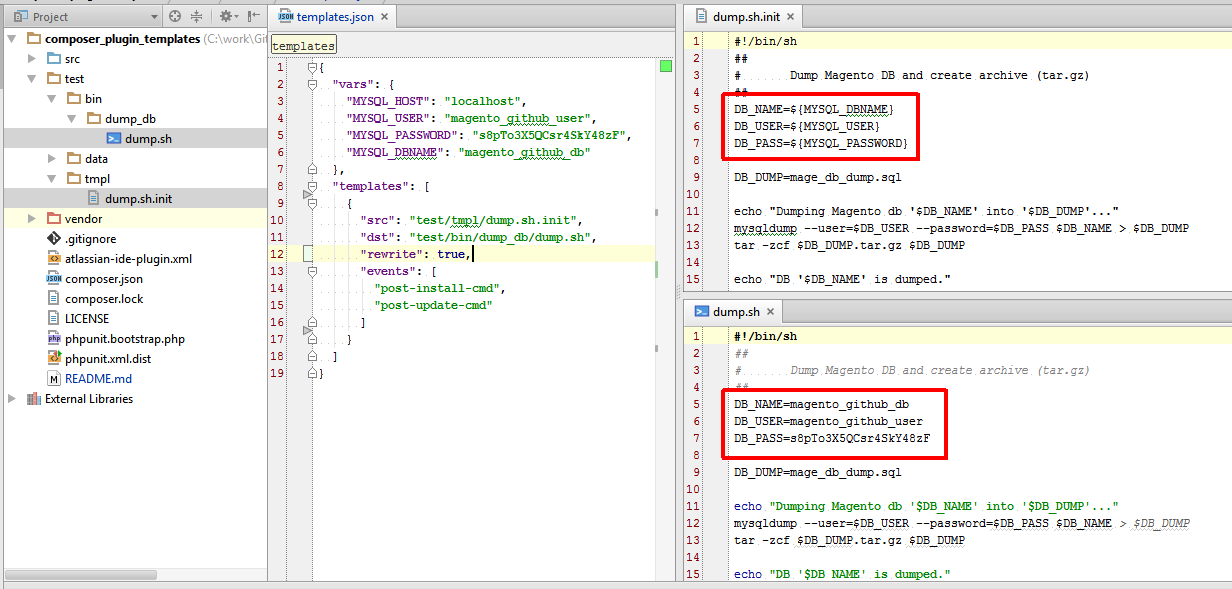
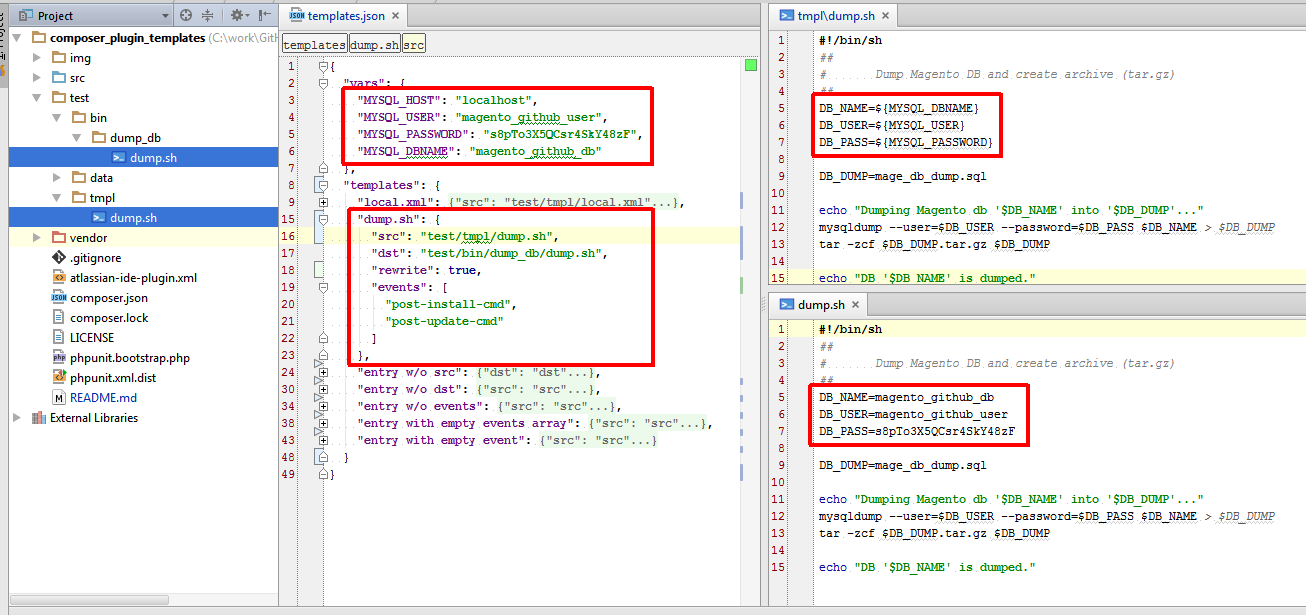
AD-23 - Update config format for templates plugin

Changed region(s): [[0.0, 0.0, 1.0, 1.0]]

diff --git a/src/Main_Test.php b/src/Main_Test.php
@@ -31,7 +31,7 @@ use Composer\Script\ScriptEvents;
 class Main_Test extends \PHPUnit_Framework_TestCase
 {
     const FILE_CONFIG_JSON = 'test/data/templates.json';
-    const FILE_TMPL_SRC = 'test/tmpl/dump.sh.init';
+    const FILE_TMPL_SRC = 'test/tmpl/dump.sh';
     const FILE_TMPL_DST = 'test/bin/dump_db/dump.sh';
     /** @var  string Root directory for the plugin to use test related files and folders. */
     private static $ROOT_DIR;

diff --git a/README.md b/README.md
@@ -43,26 +43,27 @@ parameter inyour project's *composer.json*::
         "MYSQL_PASSWORD": "s8pTo3X5QCsr4SkY48zF",
         "MYSQL_DBNAME": "magento_github_db"
       },
-      "templates": [
-        {
+      "templates": {
+        "local.xml": {
           "src": "test/tmpl/local.xml",
           "dst": "test/mage/app/etc/local.xml",
           "events": "post-install-cmd",
           "rewrite": true
         },
-        {
-          "src": "test/tmpl/dump.sh.init",
+        "dump.sh": {
+          "src": "test/tmpl/dump.sh",
           "dst": "test/bin/dump_db/dump.sh",
+          "rewrite": true,
           "events": [
             "post-install-cmd",
             "post-update-cmd"
           ]
         }
-      ]
+      }
     }
 
 #### vars
-Array of the template's placeholders `${MYSQL_HOST}` and values `localhost` to be inserted into templates:
+Set of the template's placeholders `${MYSQL_HOST}` and values `localhost` to be inserted into templates:
 
     {
       "vars": {
@@ -74,26 +75,29 @@ Array of the template's placeholders `${MYSQL_HOST}` and values `localhost` to b
     }
     
 #### templates
-Array of the templates to be processed on events:
+Set of the templates to be processed on events:
 
     {
-      "templates": [
-        {
+      "templates": {
+        "local.xml": {
           "src": "test/tmpl/local.xml",
           "dst": "test/mage/app/etc/local.xml",
           "events": "post-install-cmd",
           "rewrite": true
         },
-        {
-          "src": "test/tmpl/dump.sh.init",
+        "dump.sh": {
+          "src": "test/tmpl/dump.sh",
           "dst": "test/bin/dump_db/dump.sh",
+          "rewrite": true,
           "events": [
             "post-install-cmd",
             "post-update-cmd"
           ]
         }
-      ]
+      }
     }
+
+Labels (`local.xml` & `dump.sh`) are for reference only.
 
 * *src*: path to template file;
 * *dst*: path to result file (where placeholders are replaced by its values);
